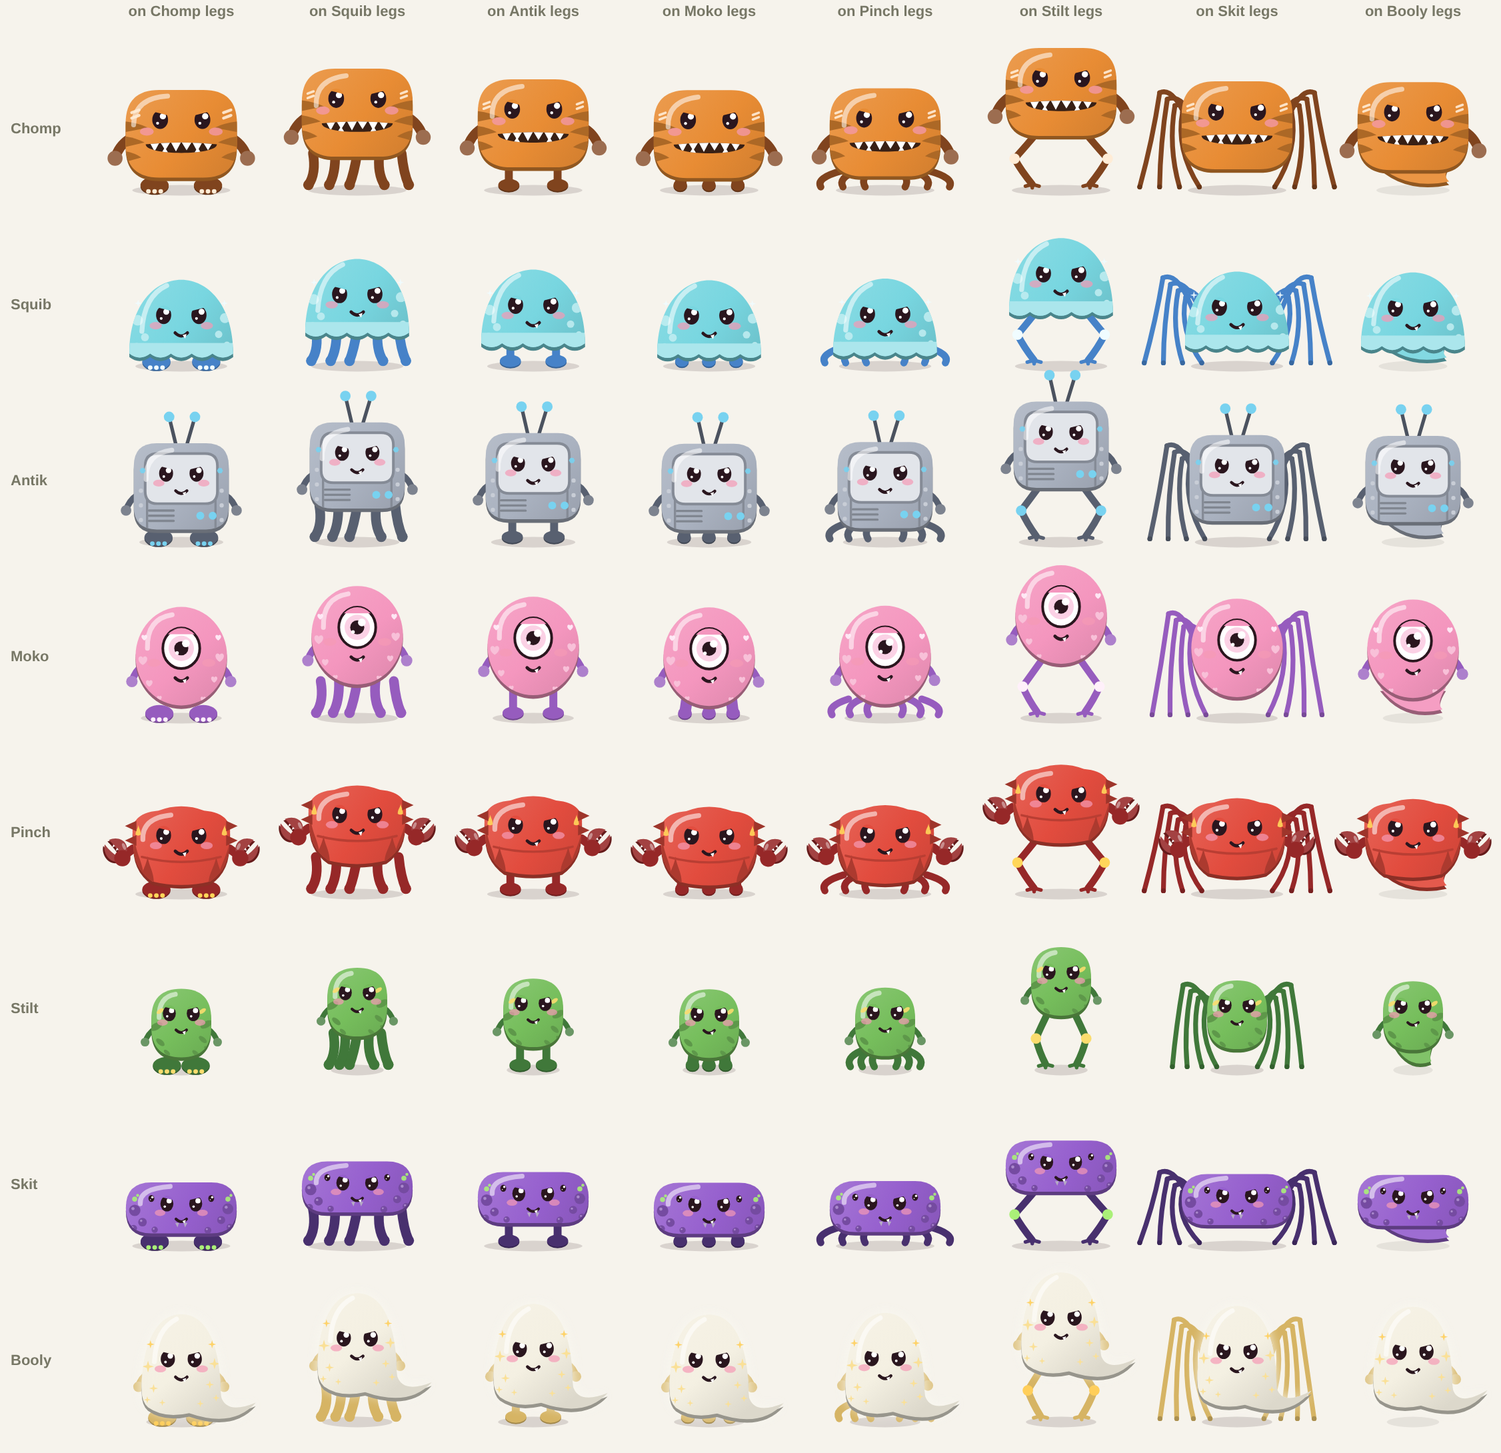
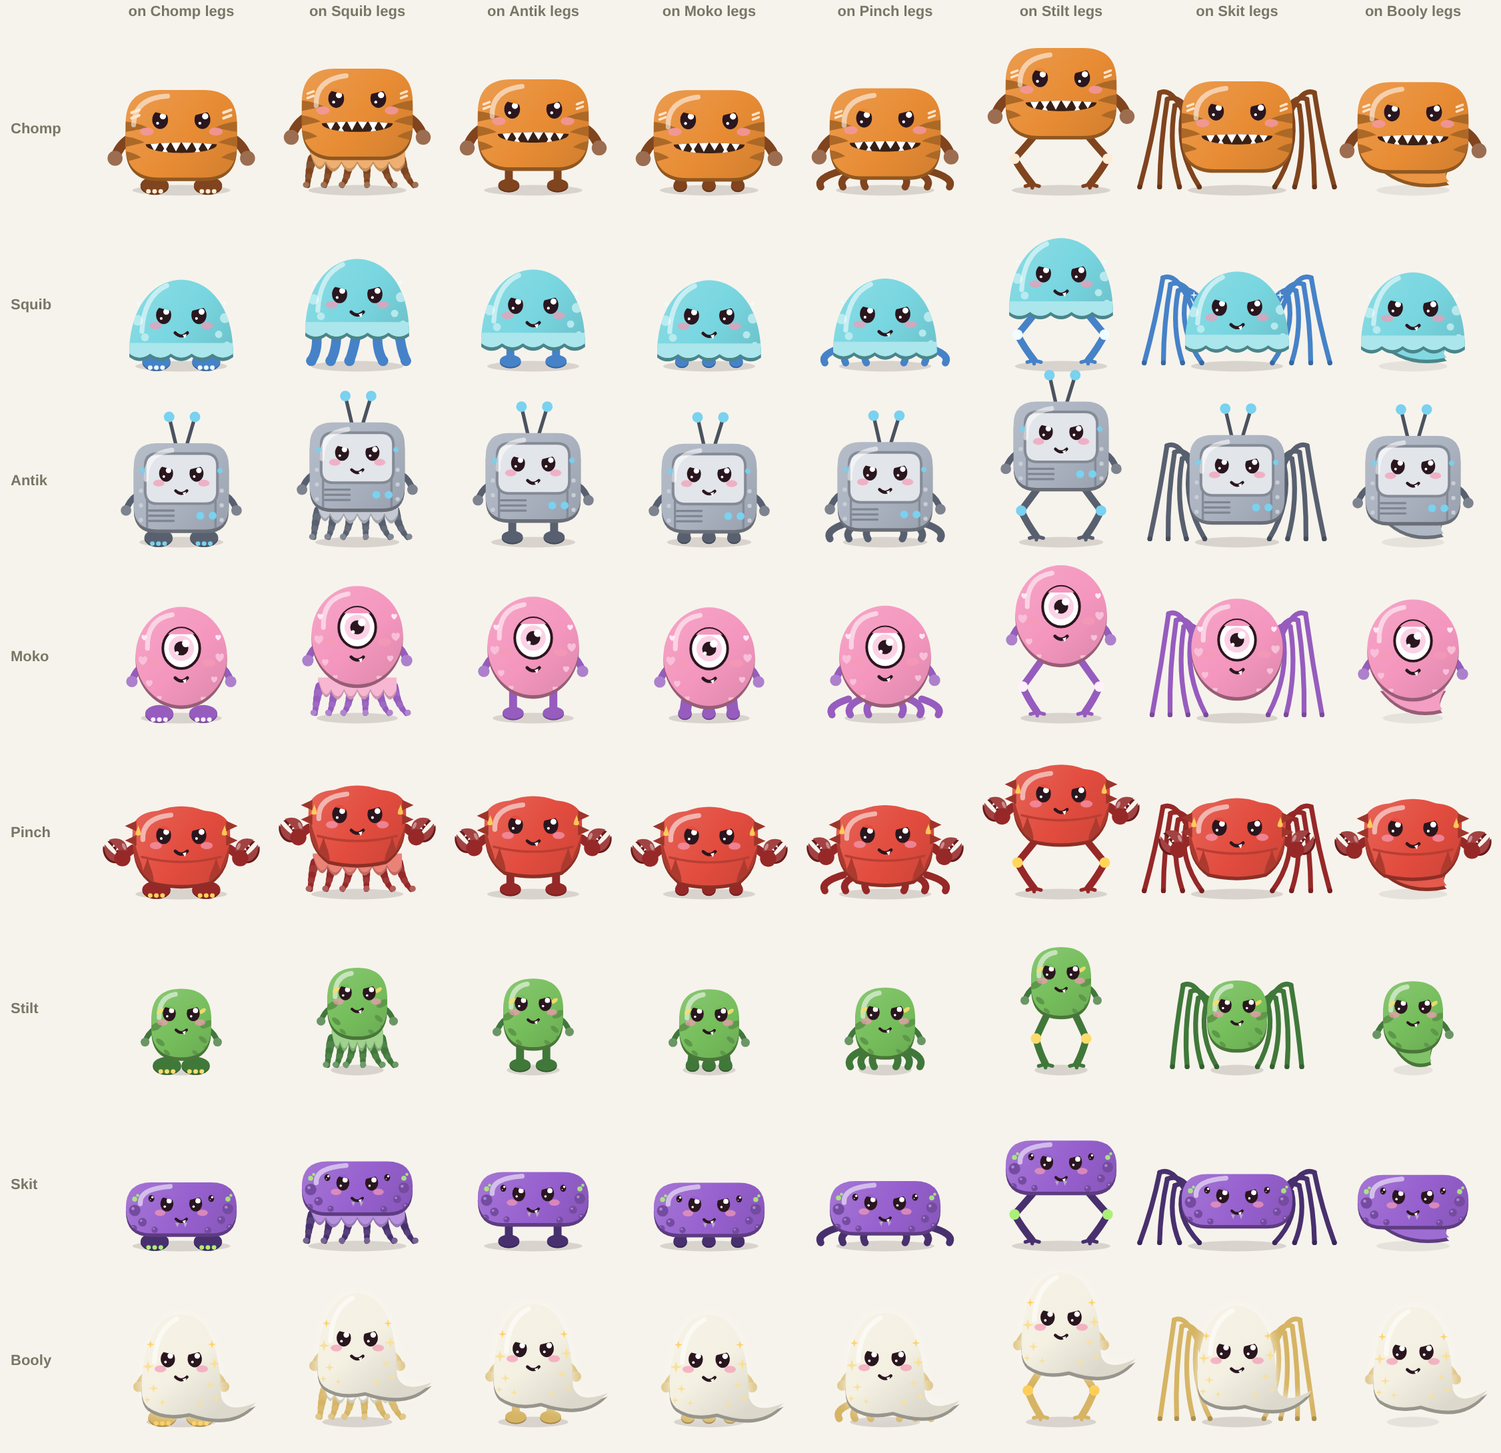
Squib legs on hybrids get a jelly skirt and tapered tentacles that splay out; three trial looks for Booly (wisp, yurei, sheet) on the #booly review sheet, off until one is picked
Claude-Session: https://claude.ai/code/session_01MQWzxUjVm8ojsjAXsvRGrb

diff --git a/prototype/chibi.js b/prototype/chibi.js
@@ -873,6 +873,27 @@ const CHIBI = (() => {
         c.bezierCurveTo(g.left, g.top + g.bh * 0.4, g.cx - g.bw * 0.36, g.top, g.cx, g.top); c.closePath(); },
       arms: 'stub', armW: st => by(st, 0, 7, 8), handR: st => by(st, 0, 5, 6), shoulderY: 0.62, armK: 0.7, shoulderIn: 0.04,
       glow: st => st === 'Mega',
+      /* three looks on trial to make Booly more than a plain ghost: m.booly = 'wisp', 'yurei' or 'sheet' */
+      inside(c, g, x) { const st = x.m.booly; if (!st) return;
+        if (st === 'yurei') { const gr = c.createLinearGradient(0, g.top + g.bh * 0.45, 0, g.bot + 10); gr.addColorStop(0, rgba(lt(x.body, 0.7), 0)); gr.addColorStop(1, rgba(lt(x.body, 0.85), 0.95));
+          c.fillStyle = gr; c.fillRect(g.left - 40, g.top, g.bw + 80, g.bh + 30);
+          c.strokeStyle = rgba(lt(x.body, 0.9), 0.8); c.lineWidth = 2.5; c.lineCap = 'round'; for (let k = 0; k < 3; k++) { const yy = g.top + g.bh * (0.74 + k * 0.08), ph = x.t / 500 + k;
+            c.beginPath(); c.moveTo(g.left + g.bw * 0.1, yy); c.bezierCurveTo(g.cx - g.bw * 0.15, yy - 5 + Math.sin(ph) * 3, g.cx + g.bw * 0.15, yy + 5, g.left + g.bw * 1.1, yy - 2); c.stroke(); } }
+        if (st === 'sheet') { c.strokeStyle = rgba(dk(x.body, 0.18), 0.7); c.lineWidth = 2.5; c.lineCap = 'round';
+          for (const f of [-0.28, 0.02, 0.3]) { c.beginPath(); c.moveTo(g.cx + f * g.bw, g.top + g.bh * 0.55); c.quadraticCurveTo(g.cx + f * g.bw * 1.15 + 3, g.top + g.bh * 0.8, g.cx + f * g.bw * 1.3, g.bot + 6); c.stroke(); }
+          c.fillStyle = rgb(dk(x.body, 0.3)); for (let k = 0; k < 5; k++) { const xx = g.left + g.bw * (0.12 + k * 0.2); c.beginPath(); c.moveTo(xx - 6, g.bot + 10); c.lineTo(xx, g.bot - 7); c.lineTo(xx + 6, g.bot + 10); c.closePath(); c.fill(); } } },
+      front(c, g, x) { const st = x.m.booly; if (!st) return;
+        if (st === 'wisp') { const a = x.t / 900, wx = g.cx + Math.cos(a) * g.bw * 0.62, wy = g.top + g.bh * 0.12 + Math.sin(a * 2) * 6, s = by(g.stage, 0.8, 1, 1.2), fl = 1 + Math.sin(x.t / 70) * 0.08;
+          c.save(); c.translate(wx, wy); c.scale(s, s * fl); c.shadowColor = 'rgba(140,200,255,.9)'; c.shadowBlur = 14;
+          c.fillStyle = 'rgba(150,205,255,.95)'; c.beginPath(); c.moveTo(0, -16); c.quadraticCurveTo(9, -4, 7, 4); c.arc(0, 4, 7, 0, Math.PI); c.quadraticCurveTo(-9, -4, 0, -16); c.fill();
+          c.shadowBlur = 0; c.fillStyle = '#f2fbff'; c.beginPath(); c.moveTo(0, -7); c.quadraticCurveTo(4, 0, 3, 4); c.arc(0, 4, 3, 0, Math.PI); c.quadraticCurveTo(-4, 0, 0, -7); c.fill(); c.restore(); }
+        if (st === 'yurei') { const hx = g.cx, hy = g.top + g.bh * 0.1, w = g.bw * by(g.stage, 0.13, 0.15, 0.16);
+          c.fillStyle = '#ffffff'; c.strokeStyle = rgb(dk(x.body, 0.25)); c.lineWidth = 2; c.beginPath(); c.moveTo(hx - w, hy - 3); c.lineTo(hx + w, hy - 3); c.lineTo(hx, hy + w * 1.05); c.closePath(); c.fill(); c.stroke();
+          c.strokeStyle = rgb(x.acc); c.lineWidth = 2; c.beginPath(); for (let k = 0; k < 14; k++) { const a = k * 0.55, r = 1 + k * 0.42; k ? c.lineTo(hx + Math.cos(a) * r, hy + w * 0.35 + Math.sin(a) * r) : c.moveTo(hx, hy + w * 0.35); } c.stroke();
+          c.strokeStyle = rgb(dk(x.body, 0.3)); c.lineWidth = 1.5; c.beginPath(); c.moveTo(hx - w - 2, hy - 3); c.quadraticCurveTo(hx - g.bw * 0.4, hy + 2, hx - g.bw * 0.47, hy + 12); c.moveTo(hx + w + 2, hy - 3); c.quadraticCurveTo(hx + g.bw * 0.4, hy + 2, hx + g.bw * 0.47, hy + 12); c.stroke(); }
+        if (st === 'sheet') { const px = g.cx + g.bw * 0.22, py = g.top + g.bh * 0.78, w = by(g.stage, 12, 14, 16);
+          c.save(); c.translate(px, py); c.rotate(0.15); c.fillStyle = rgb(mix(x.acc, [180, 200, 255], 0.4)); roundBox(c, -w / 2, -w / 2, w, w, 2); c.fill();
+          c.strokeStyle = rgb(dk(x.body, 0.45)); c.lineWidth = 1.4; c.setLineDash([2.5, 2.5]); roundBox(c, -w / 2 + 2, -w / 2 + 2, w - 4, w - 4, 1.5); c.stroke(); c.setLineDash([]); c.restore(); } },
       hl: g => [g.cx - g.bw * 0.34, g.top + g.bh * 0.5, g.cx - g.bw * 0.32, g.top + g.bh * 0.16, g.cx - g.bw * 0.06, g.top + g.bh * 0.05],
       face: (c, g, x, look) => faceTwo(c, g, x, look, { ey: 0.47, ex: 0.17, my: 0.66, s: by(g.stage, 0.76, 0.86, 0.94) })
     },
@@ -1023,8 +1044,21 @@ const CHIBI = (() => {
     c.save(); c.translate(0, 4); shape(); c.fillStyle = rgb(dk(x.body, 0.38)); c.fill(); c.restore();
     shape(); c.fillStyle = rgb(lt(x.body, 0.08)); c.fill();
   }
+  /* Squib's legs on another body: a short jelly skirt under the body and tapered tentacles that sway and splay out */
+  function jellyLegs(c, g, x) {
+    const n = by(g.stage, 4, 5, 6), tl = FAM.Squib.tl(g.stage) + 4, w0 = by(g.stage, 9, 10, 11), span = g.bw * 0.78, x0 = g.cx - span / 2;
+    for (let i = 0; i < n; i++) { const f = n === 1 ? 0.5 : i / (n - 1), tx = x0 + f * span, out = (f - 0.5) * 2, sw = Math.sin(x.t / 240 + i * 1.4) * 5 + x.walk * 3;
+      const ex = tx + out * 12 + sw, ey = 183, mx = tx + out * 4 - sw * 0.6, my = g.bot + tl * 0.5, mat = f < 0.5 ? x.L.legL : x.L.legR;
+      for (let k = 0; k < 6; k++) { const u0 = k / 6, u1 = (k + 1) / 6, P = u => { const a = 1 - u; return [a * a * tx + 2 * a * u * mx + u * u * ex, a * a * (g.bot - 6) + 2 * a * u * my + u * u * ey]; };
+        const [ax, ay] = P(u0), [bx, by2] = P(u1); if (u1 < 0.3) continue; c.strokeStyle = rgb(k % 2 ? x.parts : lt(x.parts, 0.08)); c.lineWidth = w0 * (1 - u0 * 0.6); c.lineCap = 'round';
+        c.beginPath(); c.moveTo(ax, ay); c.lineTo(bx, by2); c.stroke(); }
+      c.fillStyle = rgb(lt(x.parts, 0.25)); c.beginPath(); c.arc(ex + out * 2, ey - 1, w0 * 0.32, 0, 7); c.fill(); }
+    const sk = lt(x.body, 0.3), m = by(g.stage, 4, 5, 6), sw2 = g.bw * 0.86 / m, L = g.cx - g.bw * 0.43;
+    c.fillStyle = rgb(dk(sk, 0.18)); c.beginPath(); c.moveTo(L, g.bot - 6); for (let i = 0; i < m; i++) c.quadraticCurveTo(L + (i + 0.5) * sw2, g.bot + 26, L + (i + 1) * sw2, g.bot + 8); c.lineTo(L + g.bw * 0.86, g.bot - 6); c.closePath(); c.fill();
+    c.fillStyle = rgb(sk); c.beginPath(); c.moveTo(L, g.bot - 8); for (let i = 0; i < m; i++) c.quadraticCurveTo(L + (i + 0.5) * sw2, g.bot + 22, L + (i + 1) * sw2, g.bot + 5); c.lineTo(L + g.bw * 0.86, g.bot - 8); c.closePath(); c.fill();
+  }
   const famOf = n => n === 'Chomp' ? CHOMP_F : FAM[n];
-  function legsOf(b) { const B = famOf(b); if (b === 'Booly') return ghostTail; if (b === 'Antik') return (c, g, x) => B.legs(c, g, x); return (c, g, x) => (B.legs || B.behind).call(B, c, g, x); }
+  function legsOf(b) { const B = famOf(b); if (b === 'Booly') return ghostTail; if (b === 'Squib') return jellyLegs; if (b === 'Antik') return (c, g, x) => B.legs(c, g, x); return (c, g, x) => (B.legs || B.behind).call(B, c, g, x); }
   function hybrid(name, a, b) {
     if (FAM[name]) return FAM[name];
     const A = famOf(a), B = famOf(b); if (!A || !B) return null;

diff --git a/docs/art/art-sheets.html b/docs/art/art-sheets.html
@@ -27,14 +27,15 @@ const LOOKS={
    {label:'Wanderer, from Tide',m:{variant:'Wanderer'},pf:p=>({...p,accent:[70,130,220],parts:mx(p.parts,[70,130,220],0.5)})},
    {label:'Feral, Mega, hurt',m:{variant:'Feral'},pose:'hurt'},{label:'Champion, back',m:{variant:'Champion',back:true}}]},
  hybrids:{rows:FAMS.slice(0,8),cols:FAMS.slice(0,8).map(b=>({label:'on '+b+' legs',legs:b,m:{}}))},
+ booly:{rows:['Booly','Booly:Shade','Booly:Tide'],cols:[['Now',null],['Wisp','wisp'],['Yurei','yurei'],['Sheet','sheet']].flatMap(([l,b])=>[{label:l+', Bit',m:{stage:'Bit',booly:b}},{label:l+', Mega',m:{booly:b}},{label:l+', on Pinch legs',legs:'Pinch',m:{stage:'Byte',booly:b}}])},
  new:{rows:['Pinch','Quad','Bipped','Flask','Teep','Lern'],cols:[{label:'Bit',m:{stage:'Bit'}},{label:'Byte',m:{stage:'Byte'}},{label:'Mega',m:{stage:'Mega'}},{label:'Mega happy',m:{stage:'Mega'},pose:'happy'},{label:'Mega walk',m:{stage:'Mega'},pose:'walk'}]}
 };
-const KEY=location.hash.slice(1).replace('-dark',''), DARK=/-dark/.test(location.hash), L=LOOKS[KEY]||LOOKS.new, W=KEY==='poses'||KEY==='battle'||KEY==='bit'||KEY==='back'||KEY==='ouch'||KEY==='hybrids'||KEY==='marks'||KEY==='variants'?132:150, H=W, LX=70, TOP=34, c=document.getElementById('c'), d=2;
+const KEY=location.hash.slice(1).replace('-dark',''), DARK=/-dark/.test(location.hash), L=LOOKS[KEY]||LOOKS.new, W=KEY==='poses'||KEY==='battle'||KEY==='bit'||KEY==='back'||KEY==='ouch'||KEY==='booly'||KEY==='hybrids'||KEY==='marks'||KEY==='variants'?132:150, H=W, LX=70, TOP=34, c=document.getElementById('c'), d=2;
 c.width=(LX+L.cols.length*W)*d; c.height=(TOP+L.rows.length*H)*d; c.style.width=c.width/d+'px';
 const x=c.getContext('2d'); x.scale(d,d); if(DARK){ x.fillStyle='#4f7a45'; x.fillRect(0,0,c.width,c.height); } x.font='600 11px sans-serif'; x.textAlign='center'; x.fillStyle=DARK?'#e8f0e0':'#776';
 L.cols.forEach((col,i)=>{ const words=col.label.split(', '); words.forEach((w,k)=>x.fillText(w,LX+i*W+W/2,12+k*12)); });
 x.textAlign='left';
-L.rows.forEach((fam,j)=>{ x.fillStyle=DARK?'#e8f0e0':'#776'; x.fillText(fam,8,TOP+j*H+H/2);
-  L.cols.forEach((col,i)=>{ const el=col.m.el||HOME[fam]; x.save(); x.translate(LX+i*W,TOP+j*H-16); x.scale(W/200,W/200);
+L.rows.forEach((row,j)=>{ const [fam,rowEl]=row.split(':'); x.fillStyle=DARK?'#e8f0e0':'#776'; x.fillText(row.replace(':',', '),8,TOP+j*H+H/2);
+  L.cols.forEach((col,i)=>{ const el=col.m.el||rowEl||HOME[fam]; x.save(); x.translate(LX+i*W,TOP+j*H-16); x.scale(W/200,W/200);
     const F2=col.legs&&col.legs!==fam?(CHIBI.hybrid(fam+'+'+col.legs,fam,col.legs),fam+'+'+col.legs):fam; CHIBI.draw(x,{family:F2,stage:'Mega',marks:[],worn:{},pal:col.pf?col.pf(pal(el)):pal(el),el,...col.m},col.pose||'idle',300+i*130); x.restore(); }); });
 </script></body></html>
